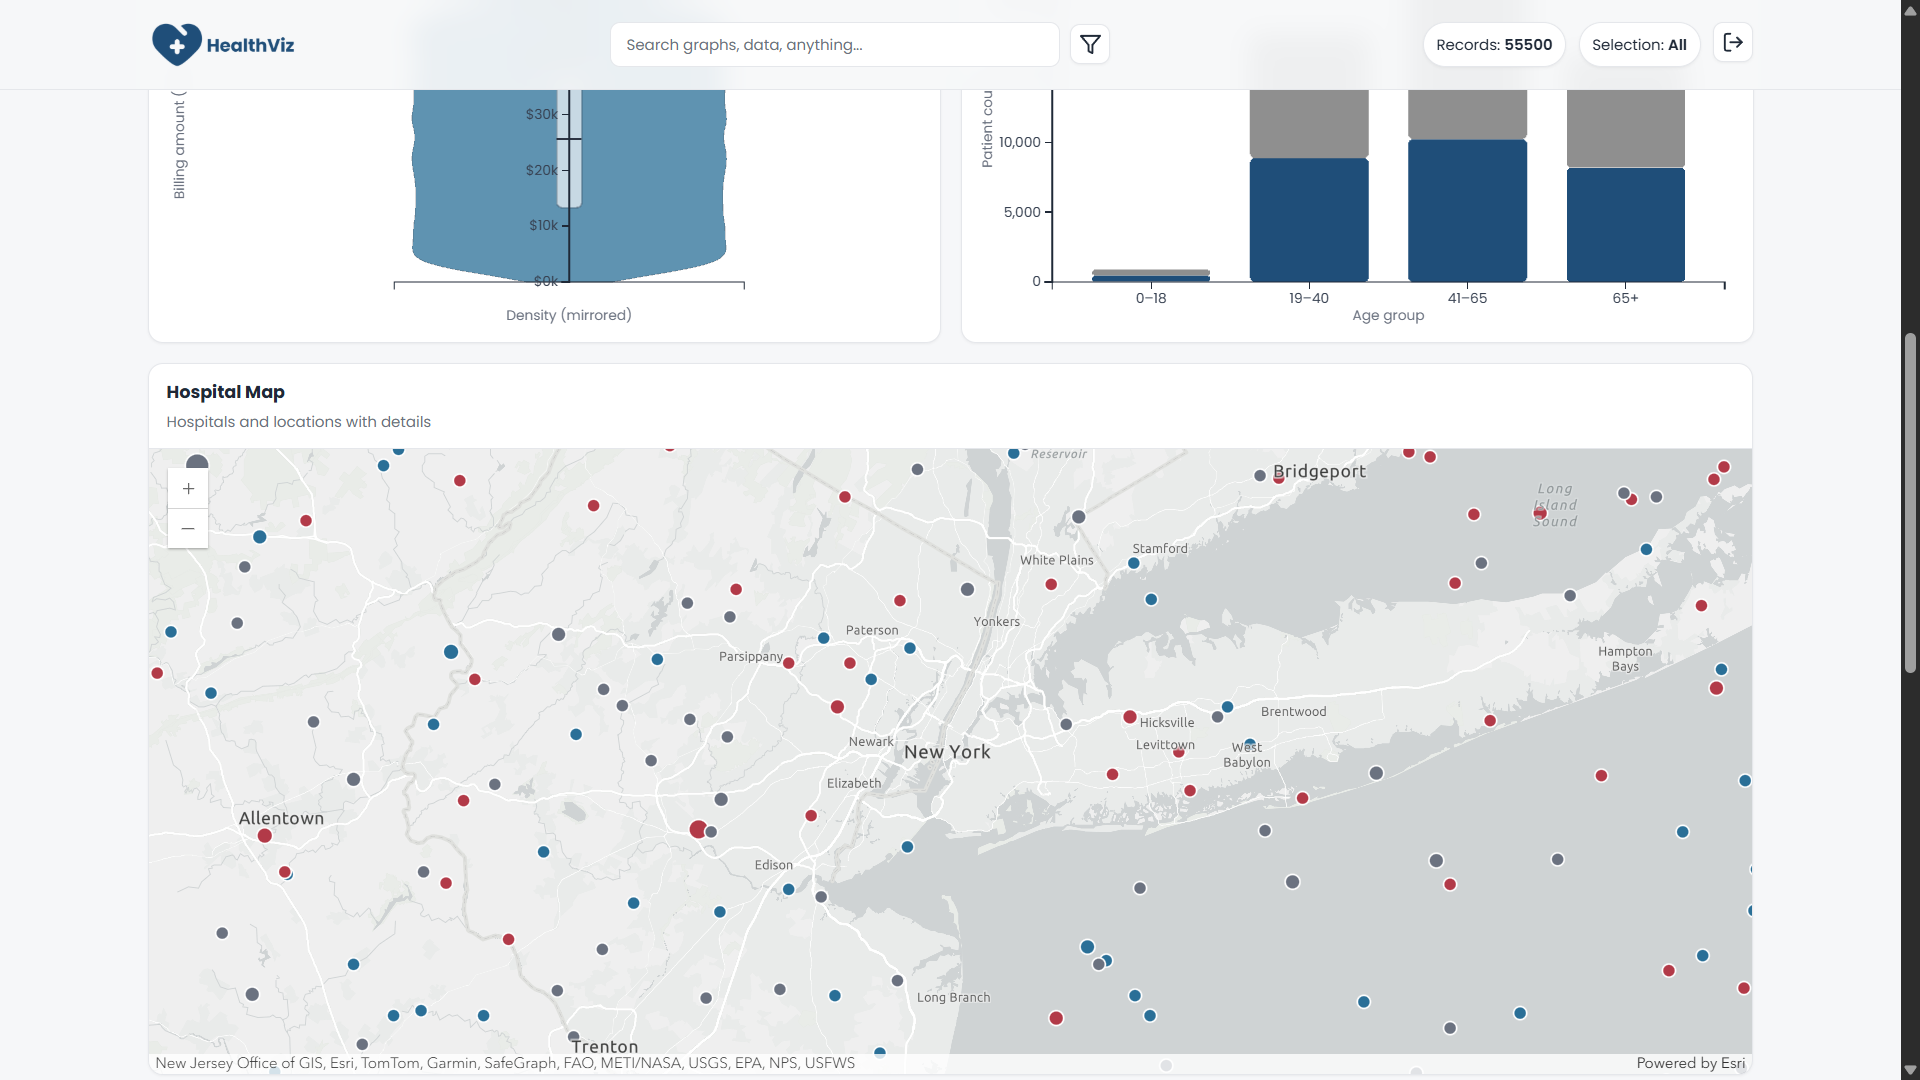
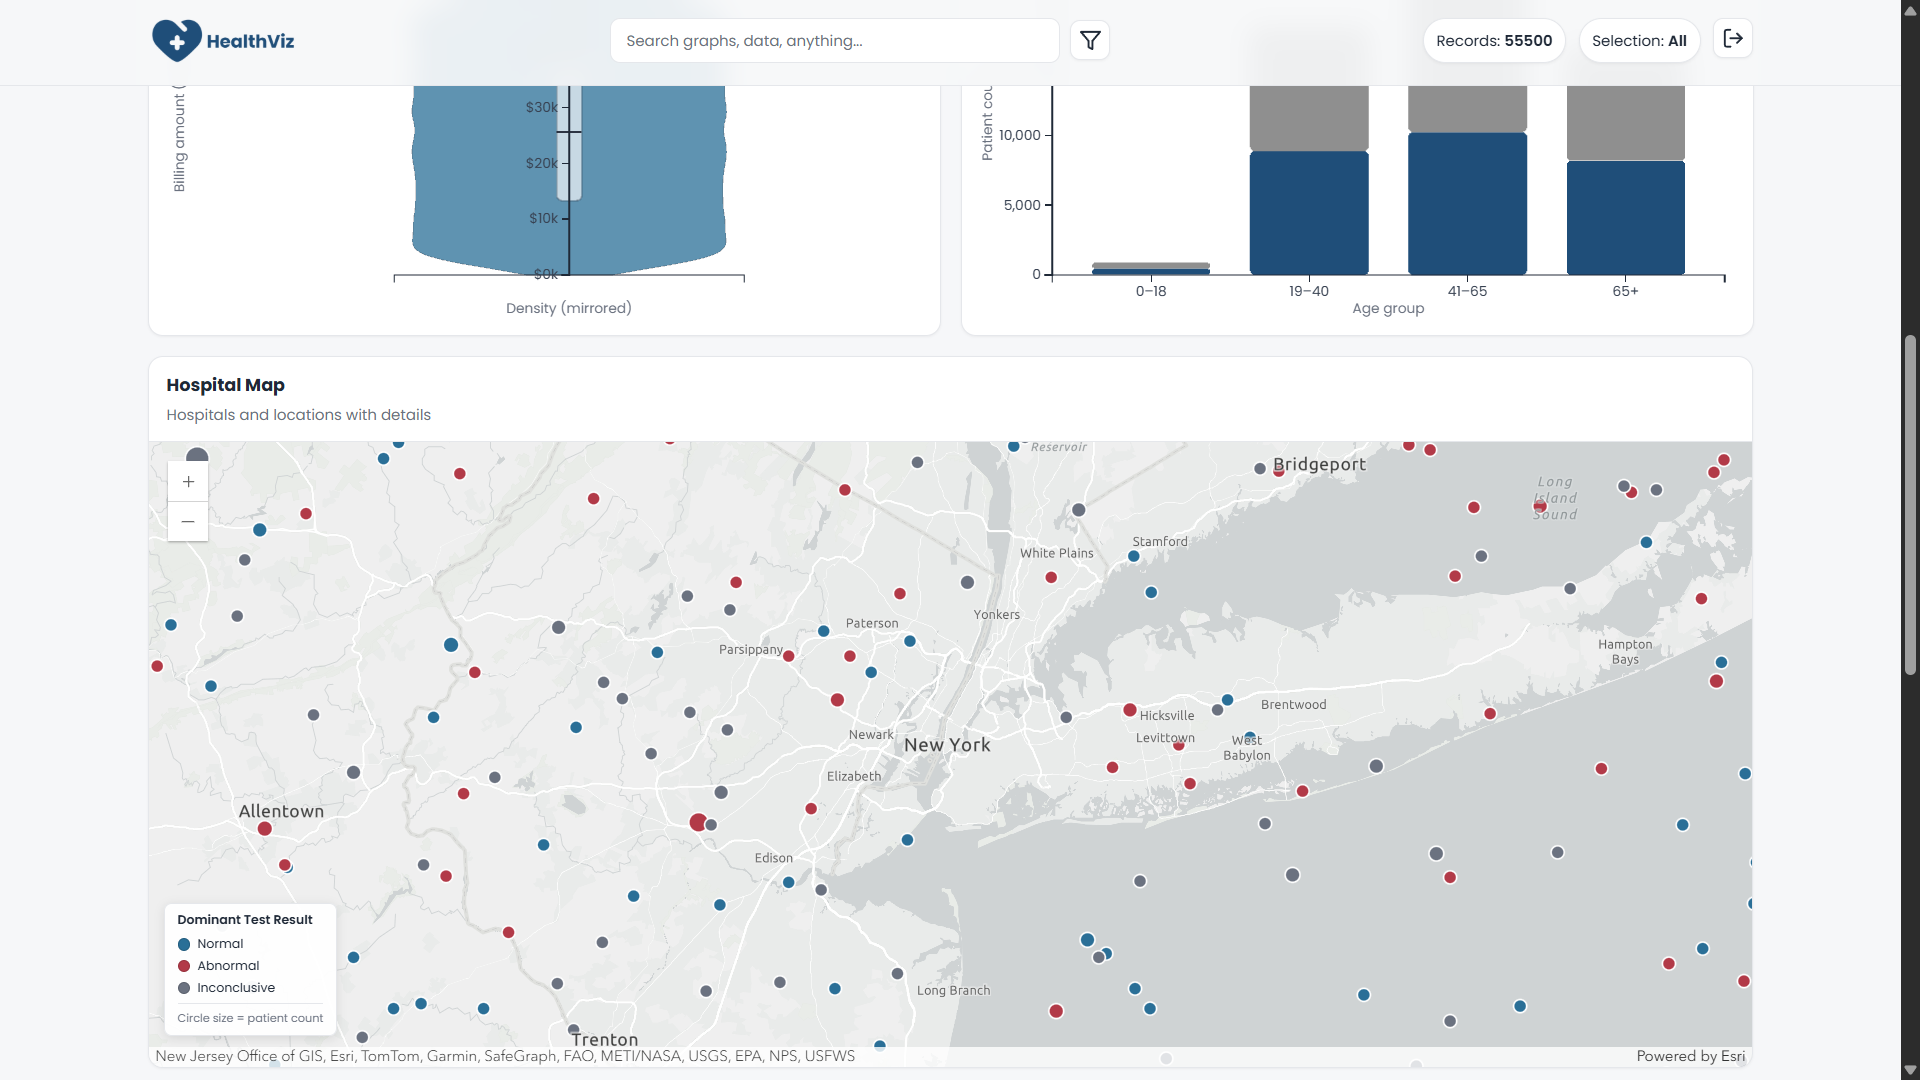
Added map color legend

diff --git a/css/styles.css b/css/styles.css
@@ -447,7 +447,7 @@ button, input, select, textarea{ font-family: inherit; }
 .card__subtitle{ margin: 4px 0 0; font-size: 12px; color: var(--muted); }
 
 .card__body{ padding: 10px 12px 12px; }
-.card__body--map{ padding: 0; display: block; }
+.card__body--map{ padding: 0; display: block; position: relative; }
 
 .viz{
   width: 680px;
@@ -469,6 +469,52 @@ button, input, select, textarea{ font-family: inherit; }
 .map{
   width: 100%;
   height: 500px;
+}
+
+/* Map Legend */
+.map-legend{
+  position: absolute;
+  bottom: 25px;
+  left: 12px;
+  background: rgba(255, 255, 255, 0.95);
+  border: 1px solid var(--border);
+  border-radius: 6px;
+  padding: 6px 10px;
+  font-size: 10px;
+  box-shadow: 0 2px 8px rgba(0, 0, 0, 0.1);
+  z-index: 10;
+}
+.map-legend__title{
+  display: block;
+  font-weight: 600;
+  margin-bottom: 5px;
+  color: var(--text);
+}
+.map-legend__items{
+  display: flex;
+  flex-direction: column;
+  gap: 3px;
+}
+.map-legend__item{
+  display: flex;
+  align-items: center;
+  gap: 6px;
+  color: var(--text);
+}
+.map-legend__dot{
+  width: 10px;
+  height: 10px;
+  border-radius: 50%;
+  border: 1px solid rgba(0, 0, 0, 0.15);
+  flex-shrink: 0;
+}
+.map-legend__hint{
+  display: block;
+  margin-top: 5px;
+  padding-top: 5px;
+  border-top: 1px solid var(--border);
+  color: var(--muted);
+  font-size: 9px;
 }
 
 .footer{

diff --git a/index.html b/index.html
@@ -294,6 +294,24 @@
           </div>
           <div class="card__body card__body--map">
             <div id="map" class="map"></div>
+            <div class="map-legend">
+              <span class="map-legend__title">Dominant Test Result</span>
+              <div class="map-legend__items">
+                <div class="map-legend__item">
+                  <span class="map-legend__dot" style="background:#2a6f97;"></span>
+                  <span>Normal</span>
+                </div>
+                <div class="map-legend__item">
+                  <span class="map-legend__dot" style="background:#b23a48;"></span>
+                  <span>Abnormal</span>
+                </div>
+                <div class="map-legend__item">
+                  <span class="map-legend__dot" style="background:#6b7280;"></span>
+                  <span>Inconclusive</span>
+                </div>
+              </div>
+              <span class="map-legend__hint">Circle size = patient count</span>
+            </div>
           </div>
         </section>
 
